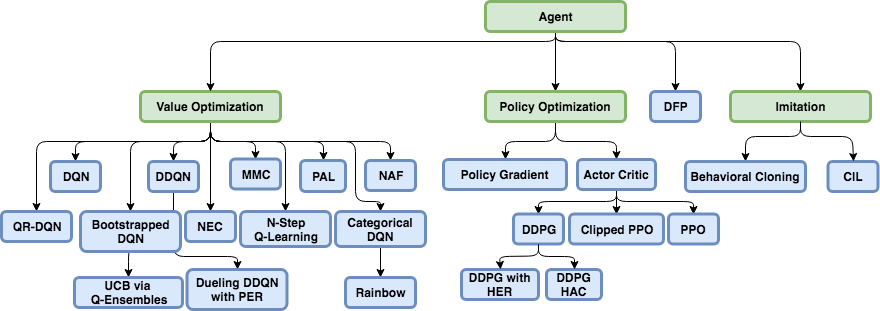
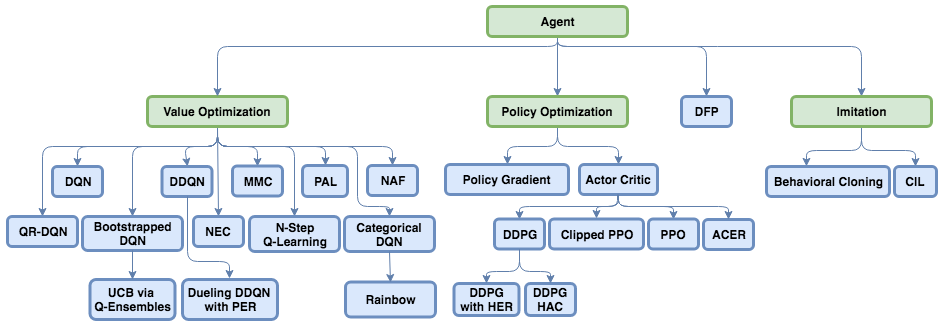
added documentation for acer

diff --git a/rl_coach/agents/acer_agent.py b/rl_coach/agents/acer_agent.py
@@ -60,7 +60,7 @@ class ACERAlgorithmParameters(AlgorithmParameters):
 
     :param beta_entropy: (float)
         An entropy regulaization term can be added to the loss function in order to control exploration. This term
-        is weighted using the :math:`\beta` value defined by beta_entropy.
+        is weighted using the beta value defined by beta_entropy.
     """
     def __init__(self):
         super().__init__()

diff --git a/docs_raw/source/components/agents/policy_optimization/acer.rst b/docs_raw/source/components/agents/policy_optimization/acer.rst
@@ -1,0 +1,60 @@
+ACER
+============
+
+**Actions space:** Discrete
+
+**References:** `Sample Efficient Actor-Critic with Experience Replay <https://arxiv.org/abs/1611.01224>`_
+
+Network Structure
+-----------------
+
+.. image:: /_static/img/design_imgs/acer.png
+   :width: 500px
+   :align: center
+
+Algorithm Description
+---------------------
+
+Choosing an action - Discrete actions
++++++++++++++++++++++++++++++++++++++
+
+The policy network is used in order to predict action probabilites. While training, a sample is taken from a categorical
+distribution assigned with these probabilities. When testing, the action with the highest probability is used.
+
+Training the network
+++++++++++++++++++++
+Each iteration perform one on-policy update with a batch of the last :math:`T_{max}` transitions,
+and :math:`n` (replay ratio) off-policy updates from batches of :math:`T_{max}` transitions sampled from the replay buffer.
+
+Each update perform the following procedure:
+
+1. **Calculate state values:**
+
+   .. math:: V(s_t) = \mathbb{E}_{a \sim \pi} [Q(s_t,a)]
+
+2. **Calculate Q retrace:**
+
+    .. math::   Q^{ret}(s_t,a_t) = r_t +\gamma \bar{\rho}_{t+1}[Q^{ret}(s_{t+1},a_{t+1}) - Q(s_{t+1},a_{t+1})] + \gamma V(s_{t+1})
+    .. math::   \text{where} \quad \bar{\rho}_{t} = \min{\left\{c,\rho_t\right\}},\quad \rho_t=\frac{\pi (a_t \mid s_t)}{\mu (a_t \mid s_t)}
+
+3. **Accumulate gradients:**
+    :math:`\bullet` **Policy gradients (with bias correction):**
+
+        .. math::  \hat{g}_t^{policy} & = & \bar{\rho}_{t} \nabla \log \pi (a_t \mid s_t) [Q^{ret}(s_t,a_t) - V(s_t)] \\
+                    & & + \mathbb{E}_{a \sim \pi} \left(\left[\frac{\rho_t(a)-c}{\rho_t(a)}\right] \nabla \log \pi (a \mid s_t) [Q(s_t,a) - V(s_t)] \right)
+
+    :math:`\bullet` **Q-Head gradients (MSE):**
+
+        .. math::  \hat{g}_t^{Q} = (Q^{ret}(s_t,a_t) - Q(s_t,a_t)) \nabla Q(s_t,a_t)\\
+
+4. **(Optional) Trust region update:** change the policy loss gradient w.r.t network output:
+
+    .. math::  \hat{g}_t^{trust-region} = \hat{g}_t^{policy} - \max \left\{0, \frac{k^T \hat{g}_t^{policy} - \delta}{\lVert k \rVert_2^2}\right\} k
+    .. math::  \text{where} \quad k = \nabla D_{KL}[\pi_{avg} \parallel \pi]
+
+    The average policy network is an exponential moving average of the parameters of the network (:math:`\theta_{avg}=\alpha\theta_{avg}+(1-\alpha)\theta`).
+    The goal of the trust region update is to the difference between the updated policy and the average policy to ensure stability.
+
+
+
+.. autoclass:: rl_coach.agents.acer_agent.ACERAlgorithmParameters

diff --git a/docs_raw/source/selecting_an_algorithm.rst b/docs_raw/source/selecting_an_algorithm.rst
@@ -190,6 +190,14 @@ The algorithms are ordered by their release date in descending order.
                learning stability and speed, both for discrete and continuous action spaces.
             </span>
          </div>
+         <div class="algorithm discrete on-policy requires-multi-worker" data-year="201707">
+            <span class="badge">
+               <a href="components/agents/policy_optimization/acer.html">ACER</a>
+               <br>
+               Similar to A3C with the addition of experience replay and off-policy training. to reduce variance and
+               improve stability it also employs bia correction and trust region optimization techniques.
+            </span>
+         </div>
          <div class="algorithm continuous off-policy" data-year="201509">
             <span class="badge">
                <a href="components/agents/policy_optimization/ddpg.html">DDPG</a>

diff --git a/docs_raw/source/components/agents/value_optimization/dqn.rst b/docs_raw/source/components/agents/value_optimization/dqn.rst
@@ -26,7 +26,7 @@ Training the network
    use the current states from the sampled batch, and run the online network to get the current Q values predictions.
    Set those values as the targets for the actions that were not actually played.
 
-4. For each action that was played, use the following equation for calculating the targets of the network:                                                         $$ y_t=r(s_t,a_t)+γ\cdot max_a {Q(s_{t+1},a)} $$ 
+4. For each action that was played, use the following equation for calculating the targets of the network:
    :math:`y_t=r(s_t,a_t )+\gamma \cdot max_a Q(s_{t+1})`
 
 5. Finally, train the online network using the current states as inputs, and with the aforementioned targets.

diff --git a/docs_raw/source/components/agents/value_optimization/double_dqn.rst b/docs_raw/source/components/agents/value_optimization/double_dqn.rst
@@ -19,7 +19,7 @@ Training the network
 
 1. Sample a batch of transitions from the replay buffer.
 
-2. Using the next states from the sampled batch, run the online network in order to find the $Q$ maximizing
+2. Using the next states from the sampled batch, run the online network in order to find the :math:`Q` maximizing
    action :math:`argmax_a Q(s_{t+1},a)`. For these actions, use the corresponding next states and run the target
    network to calculate :math:`Q(s_{t+1},argmax_a Q(s_{t+1},a))`.
 

diff --git a/docs_raw/source/components/agents/index.rst b/docs_raw/source/components/agents/index.rst
@@ -14,6 +14,7 @@ A detailed description of those algorithms can be found by navigating to each of
    :caption: Agents
 
    policy_optimization/ac
+   policy_optimization/acer
    imitation/bc
    value_optimization/bs_dqn
    value_optimization/categorical_dqn
